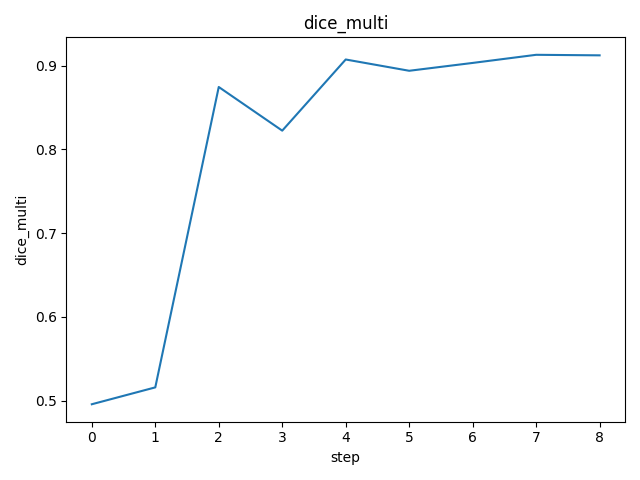
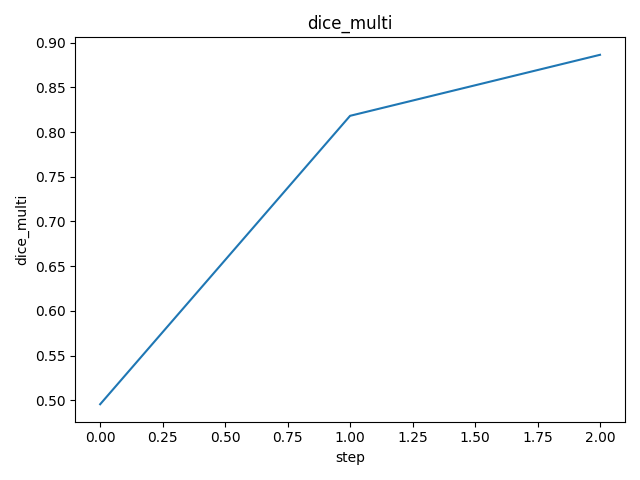
CML PR for 56280440 [skip ci] (#30)

diff --git a/results/evaluate/report.md b/results/evaluate/report.md
@@ -4,24 +4,24 @@ metrics.json
 
 |   dice_multi |
 |--------------|
-|     0.915843 |
+|     0.797809 |
 
-![REGION_1-24_1024_2048_0_1024.png](plots/images/REGION_1-24_1024_2048_0_1024.png)
+![REGION_1-24_1024_2048_2048_3072.png](plots/images/REGION_1-24_1024_2048_2048_3072.png)
 
-![REGION_1-24_1024_2048_2816_3840.png](plots/images/REGION_1-24_1024_2048_2816_3840.png)
+![REGION_2-4_1136_2160_2816_3840.png](plots/images/REGION_2-4_1136_2160_2816_3840.png)
 
-![REGION_1-24_1136_2160_1024_2048.png](plots/images/REGION_1-24_1136_2160_1024_2048.png)
+![REGION_3-8_0_1024_2816_3840.png](plots/images/REGION_3-8_0_1024_2816_3840.png)
 
-![REGION_1-24_1136_2160_2048_3072.png](plots/images/REGION_1-24_1136_2160_2048_3072.png)
+![REGION_4-12_1024_2048_0_1024.png](plots/images/REGION_4-12_1024_2048_0_1024.png)
 
-![REGION_2-19_0_1024_0_1024.png](plots/images/REGION_2-19_0_1024_0_1024.png)
+![REGION_4-12_1024_2048_2048_3072.png](plots/images/REGION_4-12_1024_2048_2048_3072.png)
 
-![REGION_2-19_1136_2160_0_1024.png](plots/images/REGION_2-19_1136_2160_0_1024.png)
+![REGION_4-22_1136_2160_2048_3072.png](plots/images/REGION_4-22_1136_2160_2048_3072.png)
 
-![REGION_2-4_1024_2048_2048_3072.png](plots/images/REGION_2-4_1024_2048_2048_3072.png)
+![REGION_6-13_0_1024_1024_2048.png](plots/images/REGION_6-13_0_1024_1024_2048.png)
 
-![REGION_3-25_1024_2048_1024_2048.png](plots/images/REGION_3-25_1024_2048_1024_2048.png)
+![REGION_6-20_1024_2048_1024_2048.png](plots/images/REGION_6-20_1024_2048_1024_2048.png)
 
-![REGION_3-8_0_1024_2048_3072.png](plots/images/REGION_3-8_0_1024_2048_3072.png)
+![REGION_7-3_1024_2048_0_1024.png](plots/images/REGION_7-3_1024_2048_0_1024.png)
 
-![REGION_4-12_0_1024_2816_3840.png](plots/images/REGION_4-12_0_1024_2816_3840.png)
+![REGION_8-24_1136_2160_1024_2048.png](plots/images/REGION_8-24_1136_2160_1024_2048.png)

diff --git a/results/train/report.md b/results/train/report.md
@@ -8,12 +8,12 @@ params.yaml
 
 metrics.json
 
-| train                         | eval                           |   dice_multi |   step |
-|-------------------------------|--------------------------------|--------------|--------|
-| {'loss': 0.02594890259206295} | {'loss': 0.023166080936789513} |     0.912273 |      8 |
+| train                          | eval                           |   dice_multi |   step |
+|--------------------------------|--------------------------------|--------------|--------|
+| {'loss': 0.049609266221523285} | {'loss': 0.029153915122151375} |     0.886321 |      2 |
 
 ![static/dice_multi](static/dice_multi.png)
 
-![static/eval/loss](static/eval/loss.png)
-
 ![static/train/loss](static/train/loss.png)
+
+![static/eval/loss](static/eval/loss.png)
